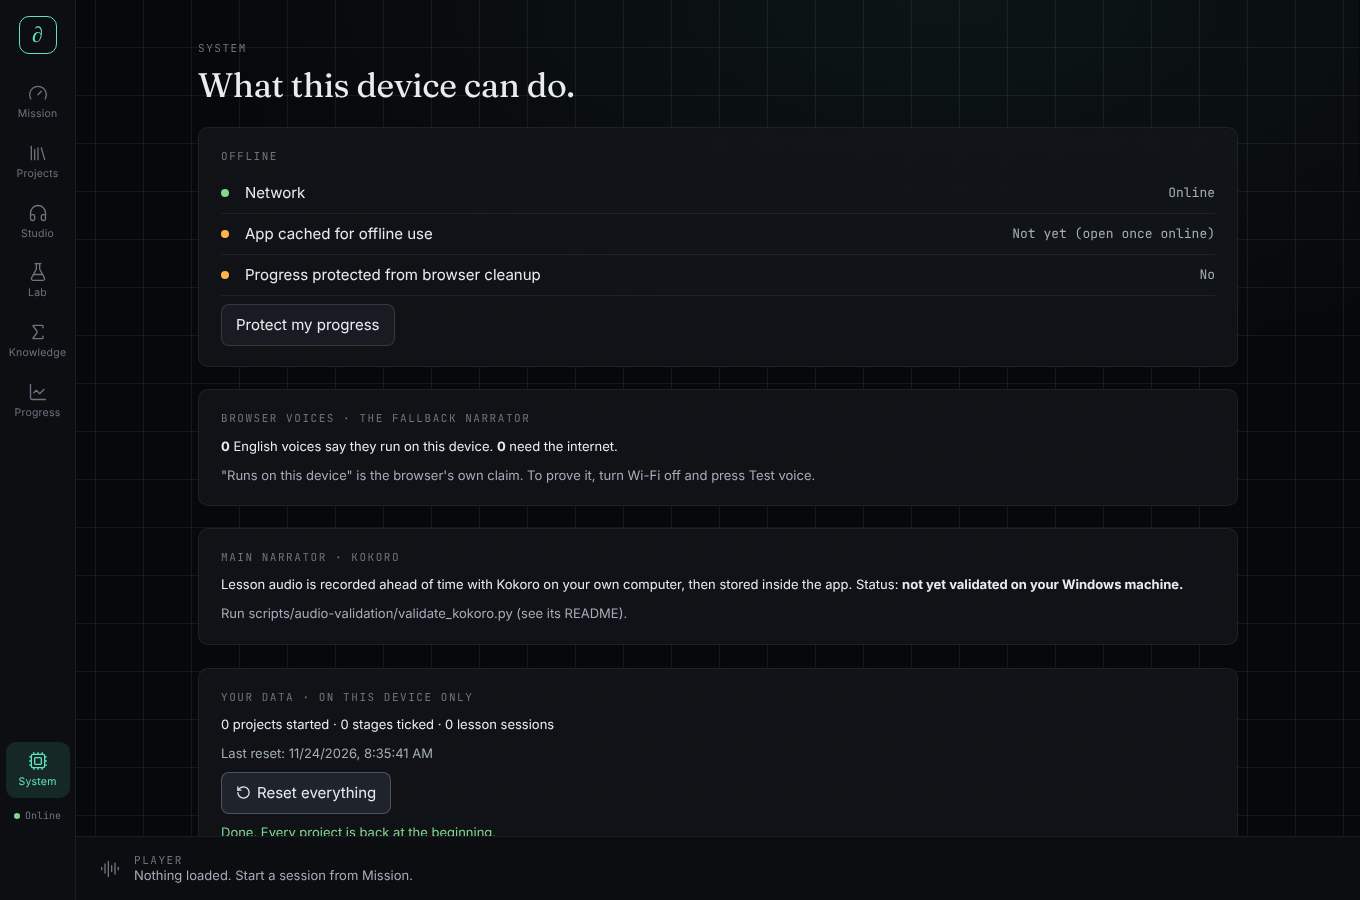
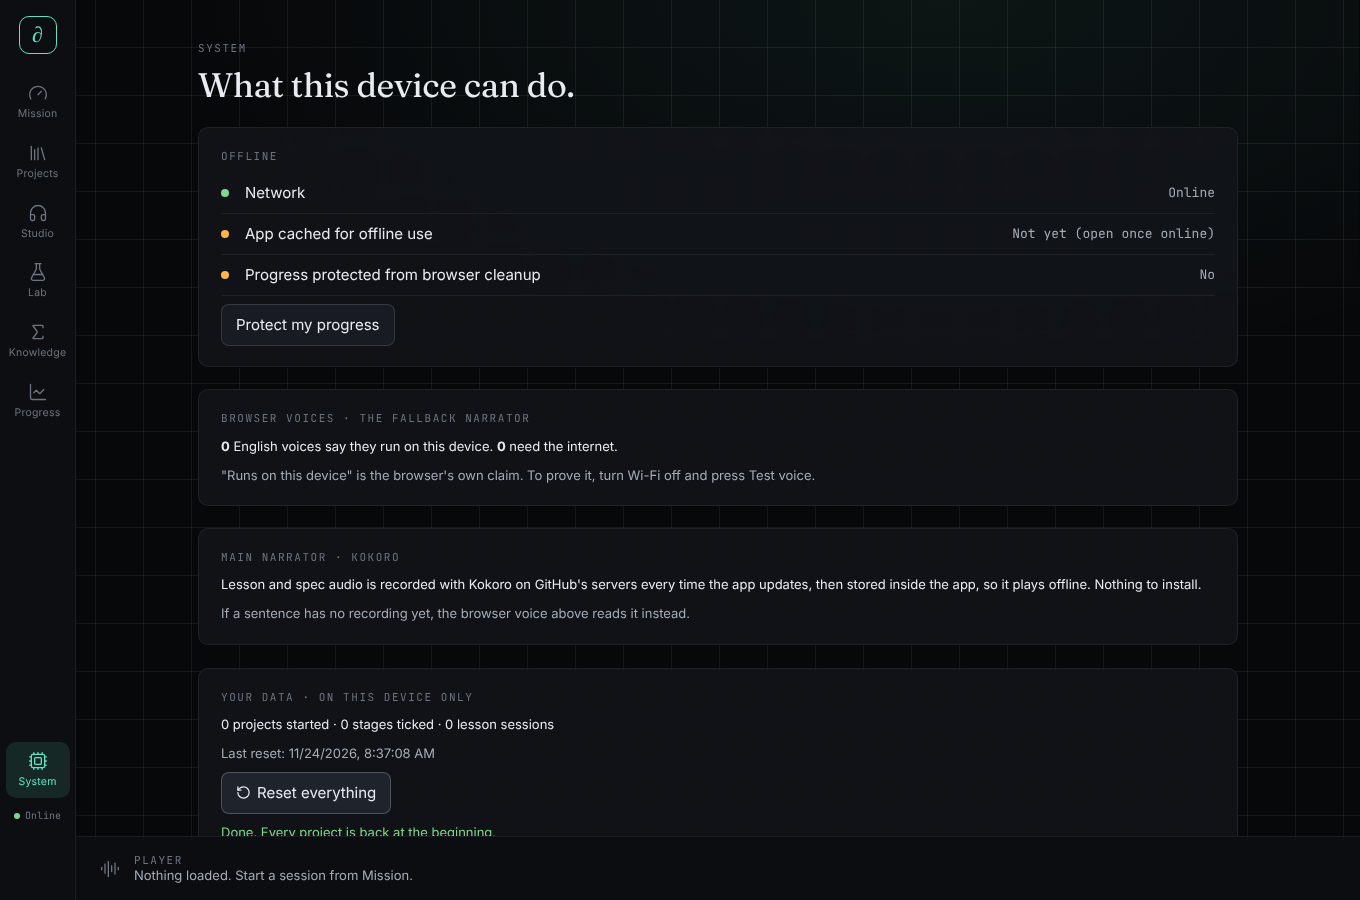
docs: record progress reset and refresh screenshots
Claude-Session: https://claude.ai/code/session_01RiWRe7hGJ3Rdy3Y3HhqKDZ

Changed region(s): [[0.1853, 0.6222, 0.8647, 0.6844], [0.2779, 0.8089, 0.3088, 0.84]]

diff --git a/README.md b/README.md
@@ -54,12 +54,17 @@ scripts/
 
 - [x] M0 Shell: navigation, design system, local data, offline install, voice check
 - [x] M1 One complete audio-visual lesson
-- [ ] M2 Project Library with verbatim specs (in review)
+- [x] M2 Project Library with verbatim specs
 - [ ] M3 Dashboard, progress with evidence, notes, backups
 - [ ] M4 Experiment Lab
 - [ ] M5 Exercises and spaced review
 - [ ] M6 Knowledge Library
 - [ ] M7+ Lesson content per project
+
+## Progress history
+
+- 2026-11-24: at Stephane's request, all progress was reset to zero (P1 and P5 included).
+  The System page has a **Reset everything** button for future resets.
 
 ## Rules this codebase follows
 
